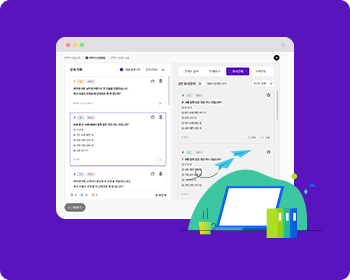
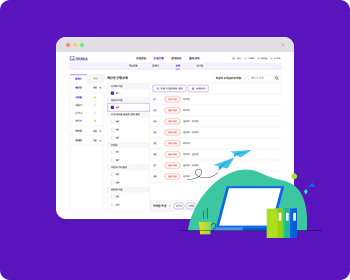
수정

Changed region(s): [[0.1714, 0.2, 0.8, 0.7714], [0.7143, 0.4857, 0.7714, 0.5143], [0.3143, 0.4857, 0.3429, 0.5429]]

diff --git a/html/sub07_01_01_que.html b/html/sub07_01_01_que.html
@@ -383,11 +383,9 @@
                   <!-- e: 20230507 삭제 -->
                   <!-- s: 20230125 수정 -->
                   <span>
-
                     <span class="box">
-                      <em>100문제</em><em>100문제</em>
+                      <em>8문제</em><em>20문제</em>
                     </span>
-
                   </span>
                   <!-- s: 20230507 삭제 -->
                   <!-- <span><button type="button" class="btn-icon fix-s pop-btn chk" data-pop="wrong-pop"><i class="graph"></i></button></span> -->
@@ -1021,25 +1019,21 @@
               </tr>
               <tr>
                 <th>난이도</th>
+                <!-- s: 20230601 수정 -->
                 <td>
                   <div class="btn-wrap flex-type">
                     <div class="btn-line active">
-                      <span class="txt">최하</span>
+                      <span class="txt">쉽게</span>
                     </div>
                     <div class="btn-line">
-                      <span class="txt">하</span>
+                      <span class="txt">그대로</span>
                     </div>
                     <div class="btn-line">
-                      <span class="txt">중</span>
-                    </div>
-                    <div class="btn-line">
-                      <span class="txt">상</span>
-                    </div>
-                    <div class="btn-line">
-                      <span class="txt">최상</span>
+                      <span class="txt">어렵게</span>
                     </div>
                   </div>
                 </td>
+                <!-- e: 20230601 수정 -->
               </tr>
               <tr>
                 <th>자동채점</th>

diff --git a/html/sub08_01_01_que.html b/html/sub08_01_01_que.html
@@ -724,25 +724,21 @@
               </tr>
               <tr>
                 <th>난이도</th>
+                <!-- s: 20230601 수정 -->
                 <td>
                   <div class="btn-wrap flex-type">
                     <div class="btn-line active">
-                      <span class="txt">최하</span>
+                      <span class="txt">쉽게</span>
                     </div>
                     <div class="btn-line">
-                      <span class="txt">하</span>
+                      <span class="txt">그대로</span>
                     </div>
                     <div class="btn-line">
-                      <span class="txt">중</span>
-                    </div>
-                    <div class="btn-line">
-                      <span class="txt">상</span>
-                    </div>
-                    <div class="btn-line">
-                      <span class="txt">최상</span>
+                      <span class="txt">어렵게</span>
                     </div>
                   </div>
                 </td>
+                <!-- e: 20230601 수정 -->
               </tr>
               <tr>
                 <th>자동채점</th>

diff --git a/html/sub08_01_que.html b/html/sub08_01_que.html
@@ -719,25 +719,21 @@
               </tr>
               <tr>
                 <th>난이도</th>
+                <!-- s: 20230601 수정 -->
                 <td>
                   <div class="btn-wrap flex-type">
                     <div class="btn-line active">
-                      <span class="txt">최하</span>
+                      <span class="txt">쉽게</span>
                     </div>
                     <div class="btn-line">
-                      <span class="txt">하</span>
+                      <span class="txt">그대로</span>
                     </div>
                     <div class="btn-line">
-                      <span class="txt">중</span>
-                    </div>
-                    <div class="btn-line">
-                      <span class="txt">상</span>
-                    </div>
-                    <div class="btn-line">
-                      <span class="txt">최상</span>
+                      <span class="txt">어렵게</span>
                     </div>
                   </div>
                 </td>
+                <!-- e: 20230601 수정 -->
               </tr>
               <tr>
                 <th>자동채점</th>

diff --git a/html/sub08_que.html b/html/sub08_que.html
@@ -465,25 +465,21 @@
               </tr>
               <tr>
                 <th>난이도</th>
+                <!-- s: 20230601 수정 -->
                 <td>
                   <div class="btn-wrap flex-type">
                     <div class="btn-line active">
-                      <span class="txt">최하</span>
+                      <span class="txt">쉽게</span>
                     </div>
                     <div class="btn-line">
-                      <span class="txt">하</span>
+                      <span class="txt">그대로</span>
                     </div>
                     <div class="btn-line">
-                      <span class="txt">중</span>
-                    </div>
-                    <div class="btn-line">
-                      <span class="txt">상</span>
-                    </div>
-                    <div class="btn-line">
-                      <span class="txt">최상</span>
+                      <span class="txt">어렵게</span>
                     </div>
                   </div>
                 </td>
+                <!-- e: 20230601 수정 -->
               </tr>
               <tr>
                 <th>자동채점</th>

diff --git a/html/guide_que.html b/html/guide_que.html
@@ -5002,7 +5002,7 @@
             </tr>
             <tr>
               <th>난이도</th>
-              <td>
+              <!-- <td>
                 <div class="btn-wrap flex-type">
                   <div class="btn-line active">
                     <span class="txt">최하</span>
@@ -5018,6 +5018,19 @@
                   </div>
                   <div class="btn-line">
                     <span class="txt">최상</span>
+                  </div>
+                </div>
+              </td> -->
+              <td>
+                <div class="btn-wrap flex-type">
+                  <div class="btn-line active">
+                    <span class="txt">쉽게</span>
+                  </div>
+                  <div class="btn-line">
+                    <span class="txt">그대로</span>
+                  </div>
+                  <div class="btn-line">
+                    <span class="txt">어렵게</span>
                   </div>
                 </div>
               </td>

diff --git a/inc/scss/sub_que.scss b/inc/scss/sub_que.scss
@@ -804,7 +804,9 @@
         }
         .box {
           position: relative;
-          width: 69px;height: 36px;
+          // width: 69px;
+          width: 78px;
+          height: 36px;
           // color: $color-main-purple;
           font-size: 14px;
           // border: 1px solid $color-line-type02;
@@ -923,7 +925,8 @@
               color: $color-sub33;
               font-size: 11px;
               &:nth-child(1) {
-                top: 3px;right: 33px;
+                // top: 3px;right: 33px;
+                top: 5px;right: 38px;
                 &::after {
                   position: absolute;
                   bottom: -15px;right: -2px;
@@ -934,7 +937,9 @@
                 }
               }
               &:nth-child(2) {
-                bottom: 0;right: 3px;
+                bottom: 0;
+                // right: 3px;
+                left: 40px;
               }
             }
           }

diff --git a/inc/css/sub_que.css b/inc/css/sub_que.css
@@ -765,7 +765,7 @@
 }
 .sub06-que .tab-list-type01 .chk-acc span .box {
   position: relative;
-  width: 69px;
+  width: 78px;
   height: 36px;
   font-size: 14px;
   border-radius: 3px;
@@ -866,8 +866,8 @@
   font-size: 11px;
 }
 .sub06-que .sub06-student .tab-list-type01 .chk-acc span .box em:nth-child(1) {
-  top: 3px;
-  right: 33px;
+  top: 5px;
+  right: 38px;
 }
 .sub06-que .sub06-student .tab-list-type01 .chk-acc span .box em:nth-child(1)::after {
   position: absolute;
@@ -883,7 +883,7 @@
 }
 .sub06-que .sub06-student .tab-list-type01 .chk-acc span .box em:nth-child(2) {
   bottom: 0;
-  right: 3px;
+  left: 40px;
 }
 
 .sub08-01 .tab-wrap {

diff --git a/inc/scss/common_que.scss b/inc/scss/common_que.scss
@@ -3204,7 +3204,8 @@ input[type="checkbox"] {
       }
       &.flex-type {
         .btn-line {
-          width: 86px;height: 40px;
+          // width: 86px;height: 40px;
+          width: 150px;height: 40px;
           &.active {
             color: $color-main-purple;
             font-weight: 600;

diff --git a/inc/css/common_que.css b/inc/css/common_que.css
@@ -3305,7 +3305,7 @@ input[type=checkbox]:checked + label::before {
   background-color: #ebe3ff;
 }
 .pop-wrap.wrong-sheet-type .btn-wrap.flex-type .btn-line {
-  width: 86px;
+  width: 150px;
   height: 40px;
 }
 .pop-wrap.wrong-sheet-type .btn-wrap.flex-type .btn-line.active {

diff --git a/inc/css/sh_que.css b/inc/css/sh_que.css
@@ -1865,6 +1865,11 @@ i.pen-type07 {
   padding-bottom: 30px;
   box-sizing: border-box;
 }
+.que-preview-wrap .que-badge-group {
+  display: flex;
+  align-items: center;
+  gap: 10px;
+}
 .que-preview-wrap .que-top {
   position: relative;
   z-index: 1;

diff --git a/inc/scss/sh_que.scss b/inc/scss/sh_que.scss
@@ -1726,6 +1726,10 @@ i {
 	z-index: 4;
 	padding-bottom: 30px;
 	box-sizing: border-box;
+	.que-badge-group {
+		@include layout-center;
+		gap: 10px;
+	}
 	.que-top {
 		position: relative;
 		z-index: 1;
